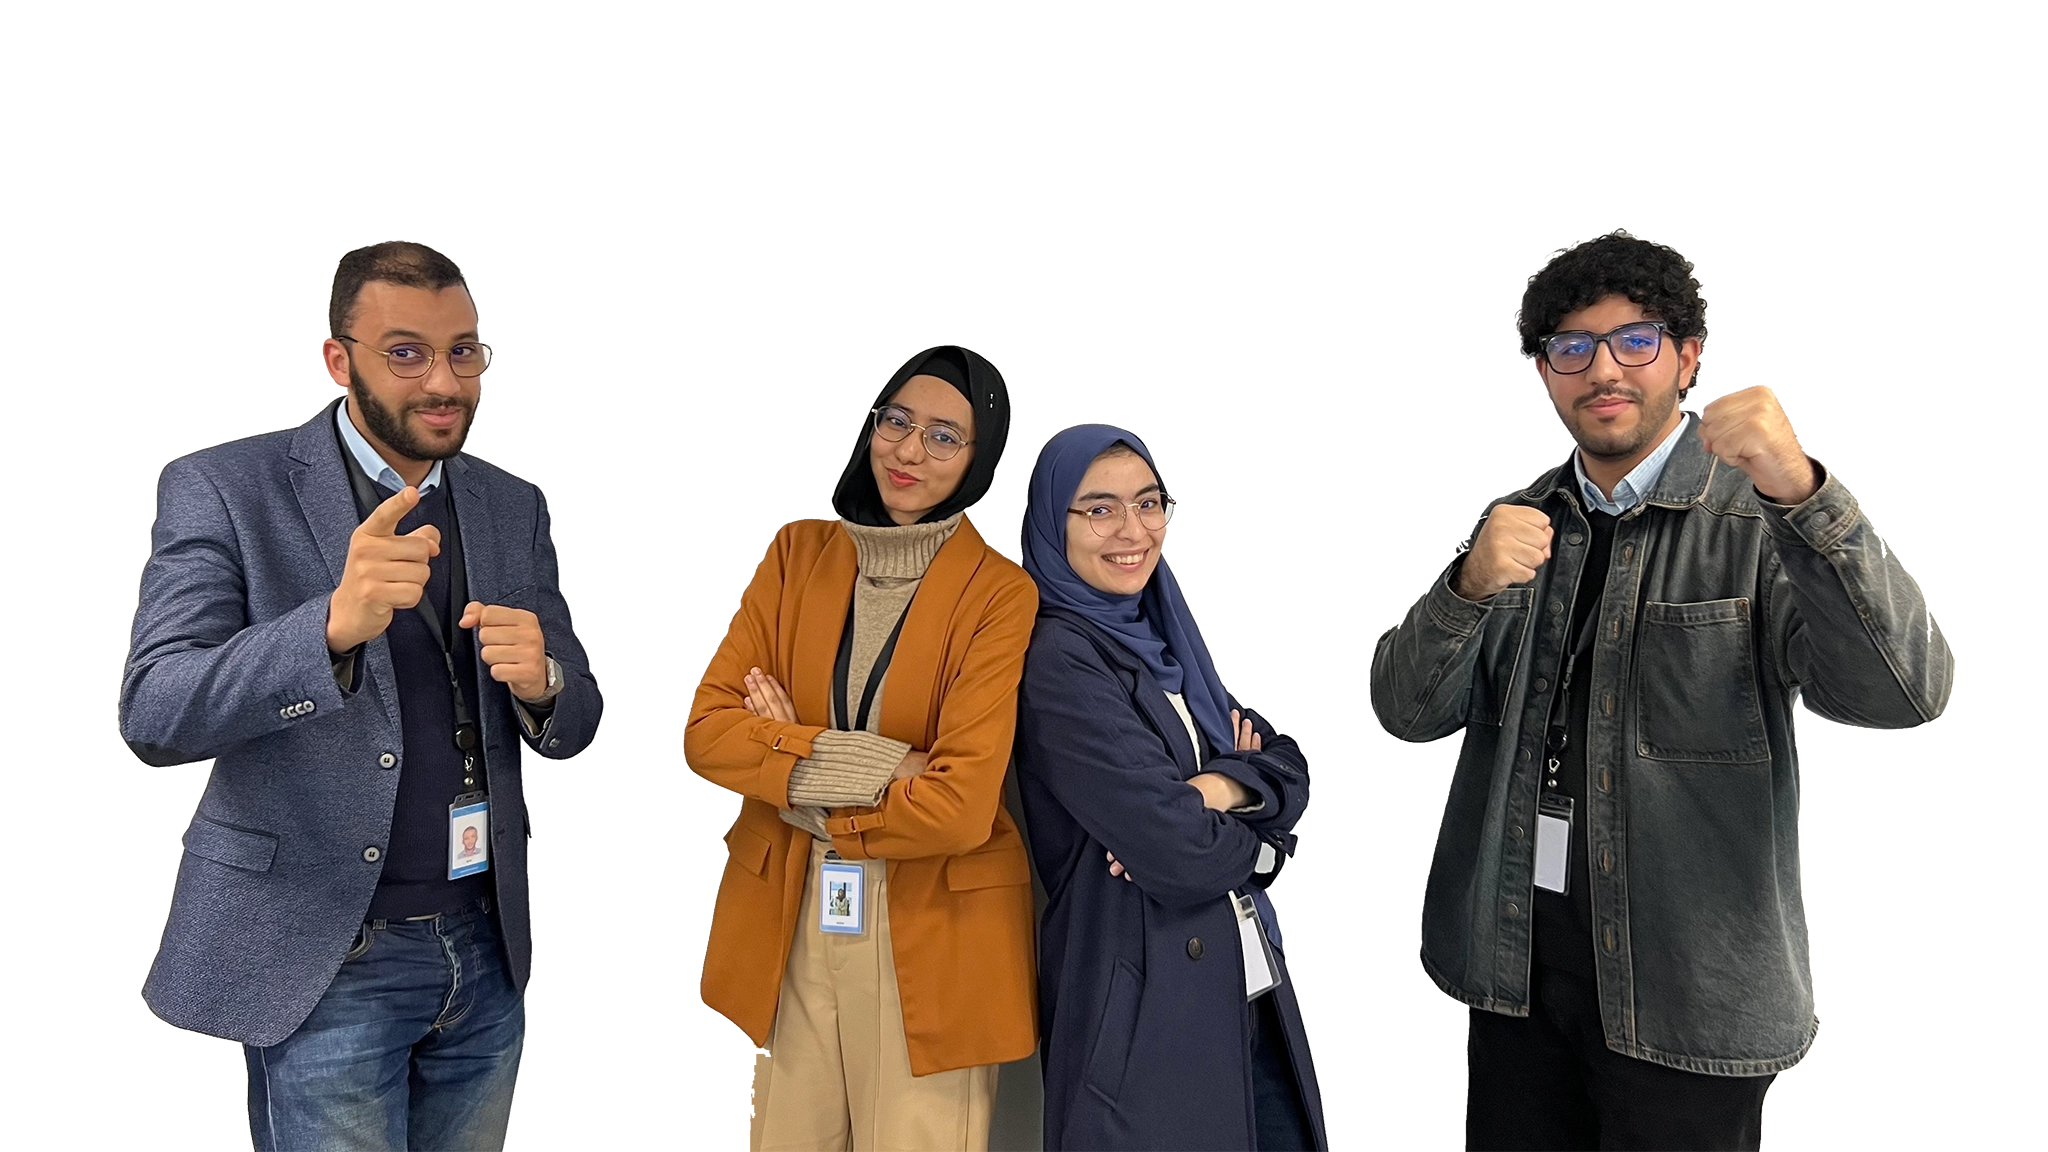
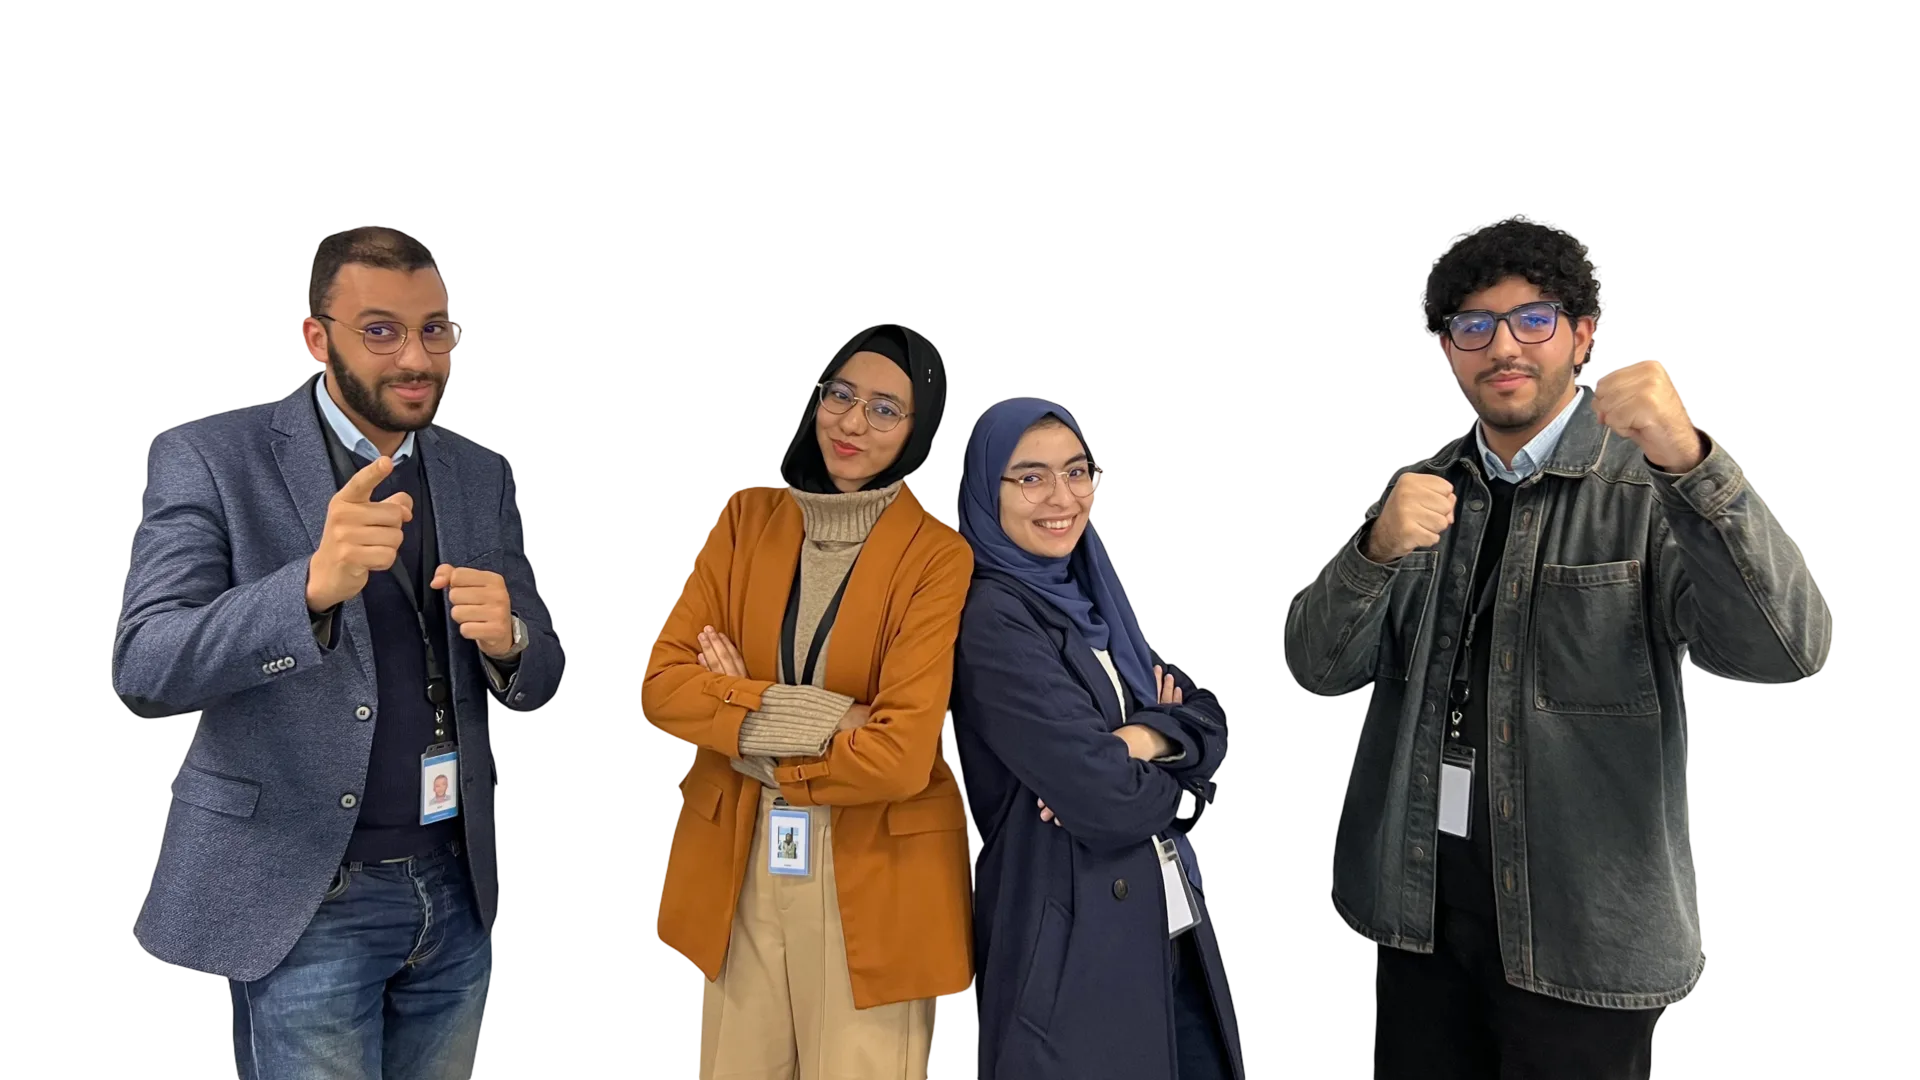
webp

diff --git a/index.html b/index.html
@@ -699,43 +699,43 @@
       const teams = [
         {
           name: "Agent Zero",
-          imgMosaic: "./img/agent_zero.png",
-          imgSpotlight: "./img/agent_zero.png",
+          imgMosaic: "./img/agent_zero.webp",
+          imgSpotlight: "./img/agent_zero.webp",
         },
         {
           name: "Mindra",
-          imgMosaic: "./img/mindra.png",
-          imgSpotlight: "./img/mindra.png",
+          imgMosaic: "./img/mindra.webp",
+          imgSpotlight: "./img/mindra.webp",
         },
         {
           name: "omiAI-Tech",
-          imgMosaic: "./img/omiai_tech.png",
-          imgSpotlight: "./img/omiai_tech.png",
+          imgMosaic: "./img/omiai_tech.webp",
+          imgSpotlight: "./img/omiai_tech.webp",
         },
         {
           name: "AiShadows",
-          imgMosaic: "./img/aishadows.png",
-          imgSpotlight: "./img/aishadows.png",
+          imgMosaic: "./img/aishadows.webp",
+          imgSpotlight: "./img/aishadows.webp",
         },
         {
           name: "Opptimized Minds",
-          imgMosaic: "./img/optimized_minds.png",
-          imgSpotlight: "./img/optimized_minds.png",
+          imgMosaic: "./img/optimized_minds.webp",
+          imgSpotlight: "./img/optimized_minds.webp",
         },
         {
           name: "Cortex",
-          imgMosaic: "./img/cortex.png",
-          imgSpotlight: "./img/cortex.png",
+          imgMosaic: "./img/cortex.webp",
+          imgSpotlight: "./img/cortex.webp",
         },
         {
           name: "The Disaster",
-          imgMosaic: "./img/disaster.png",
-          imgSpotlight: "./img/disaster.png",
+          imgMosaic: "./img/disaster.webp",
+          imgSpotlight: "./img/disaster.webp",
         },
         {
           name: "CareBytes",
-          imgMosaic: "./img/carebytes.png",
-          imgSpotlight: "./img/carebytes.png",
+          imgMosaic: "./img/carebytes.webp",
+          imgSpotlight: "./img/carebytes.webp",
         },
       ];
 
